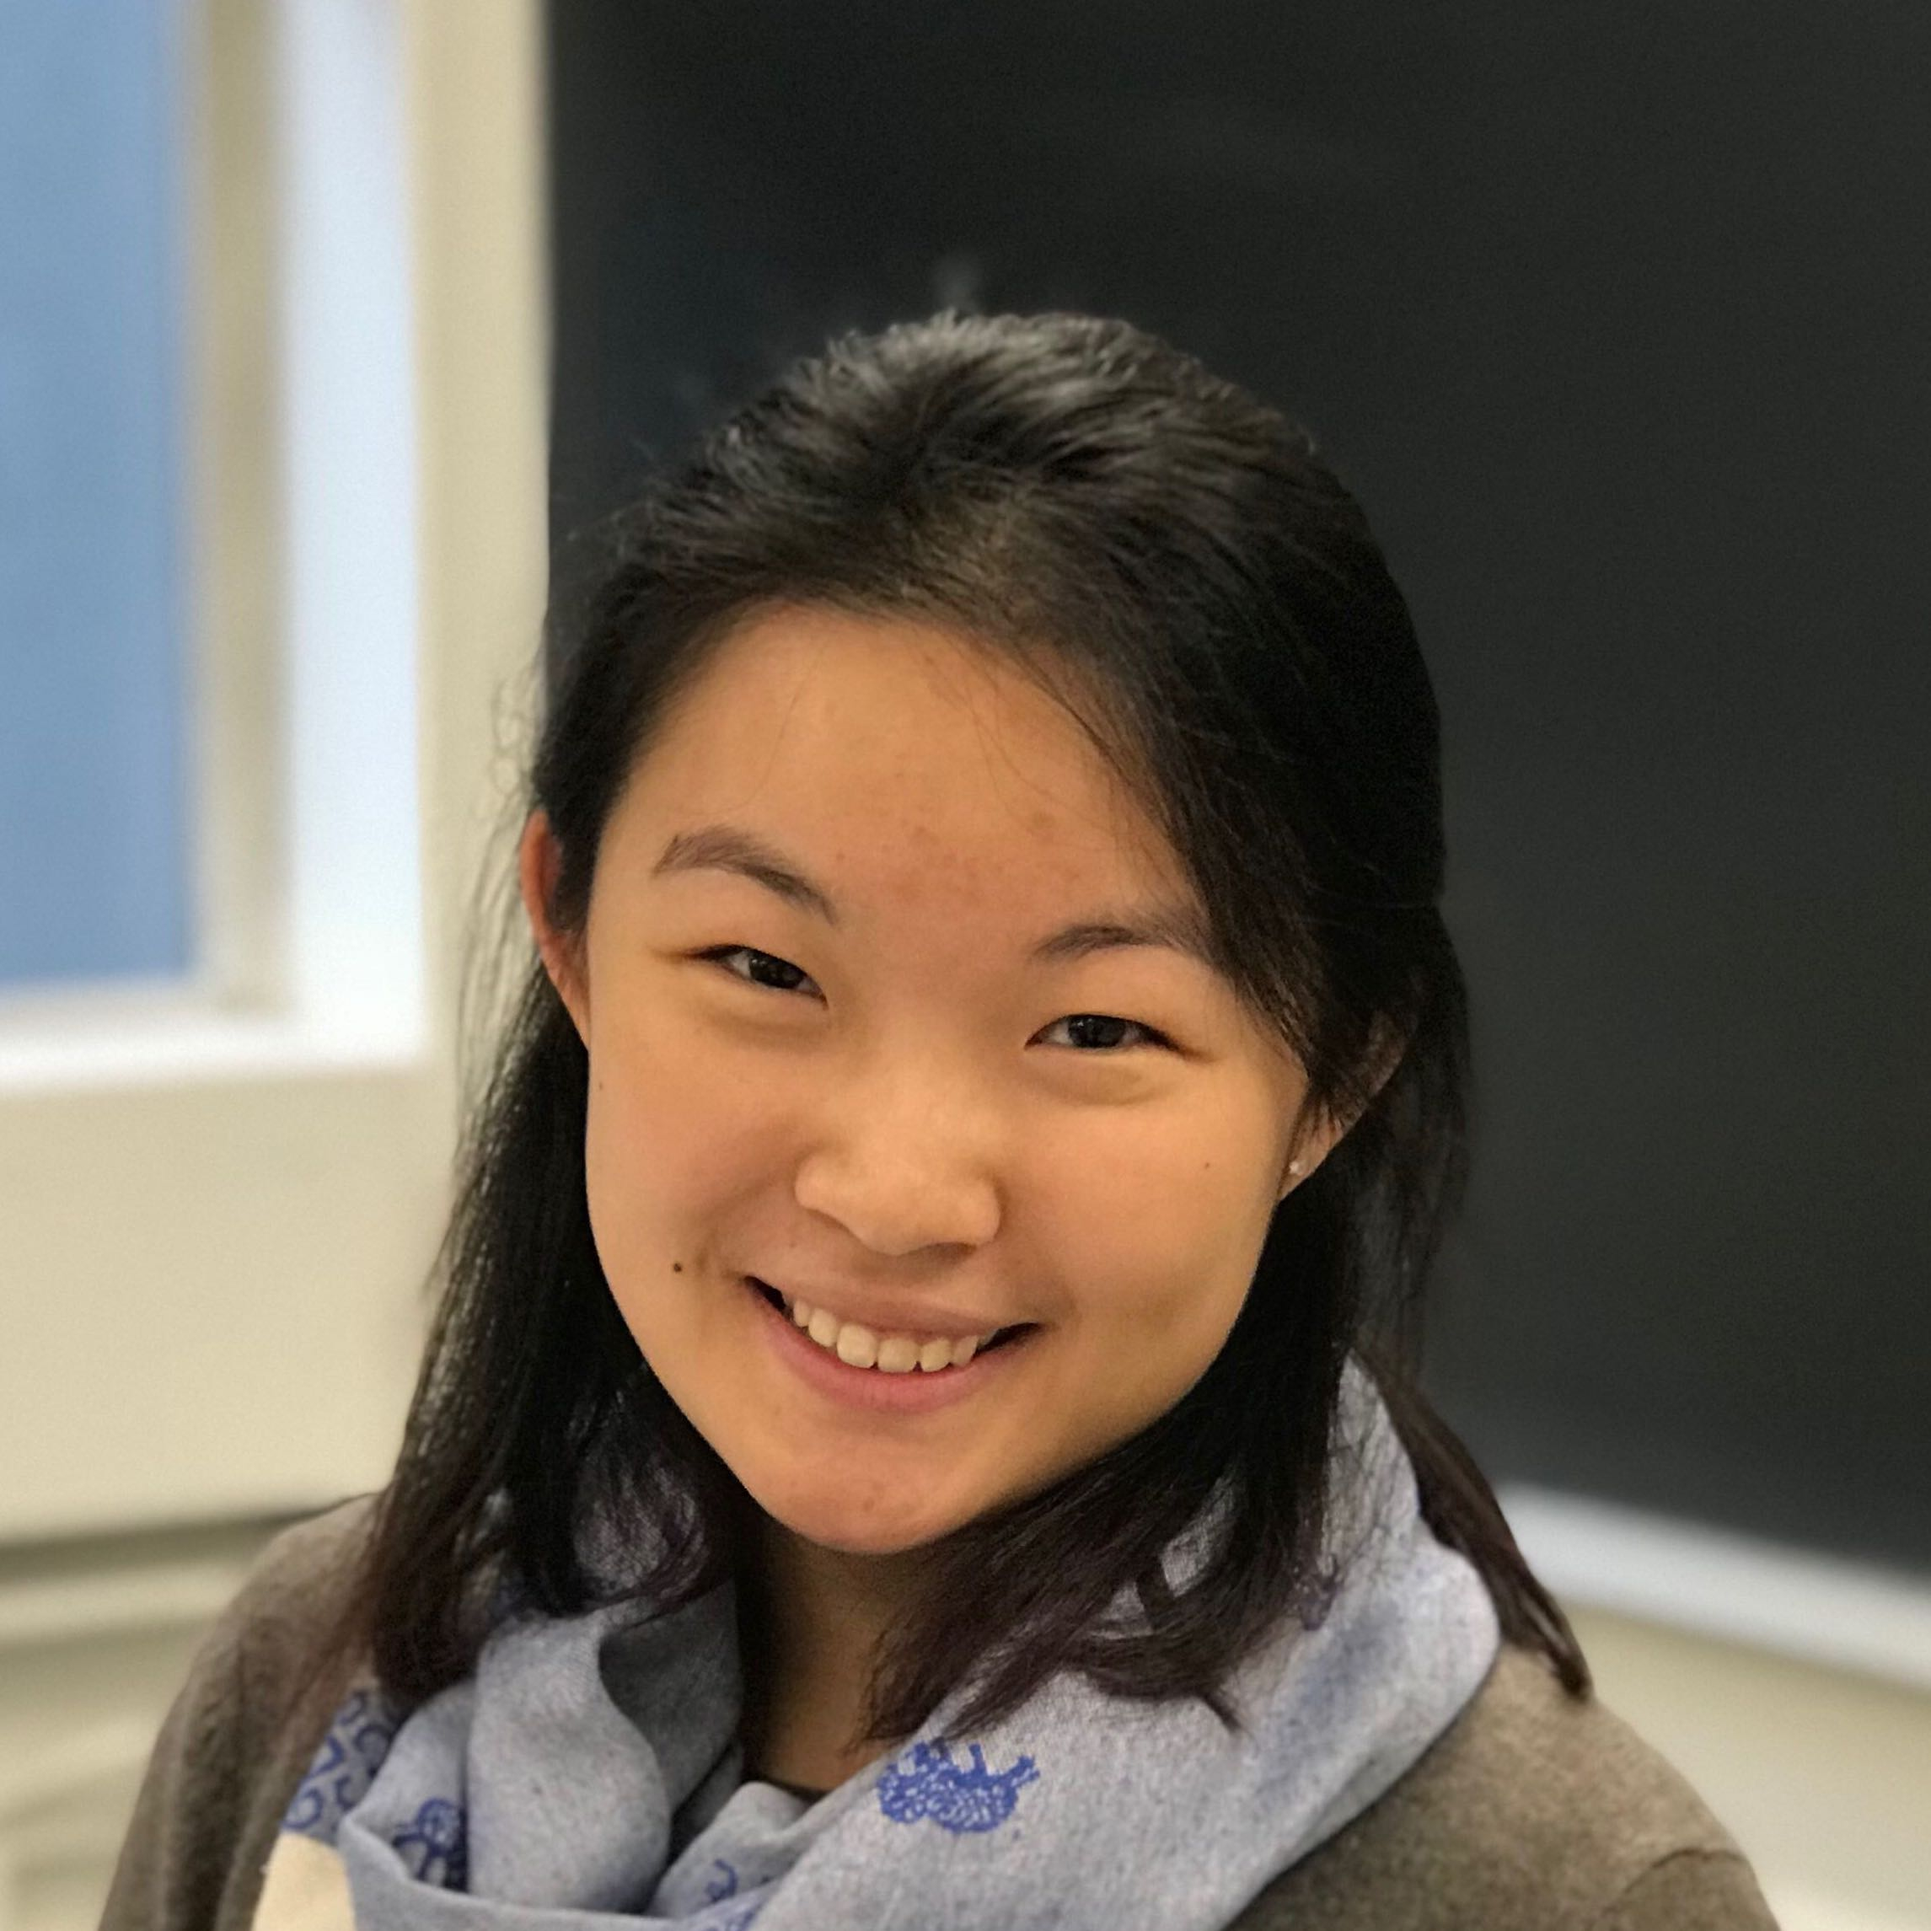
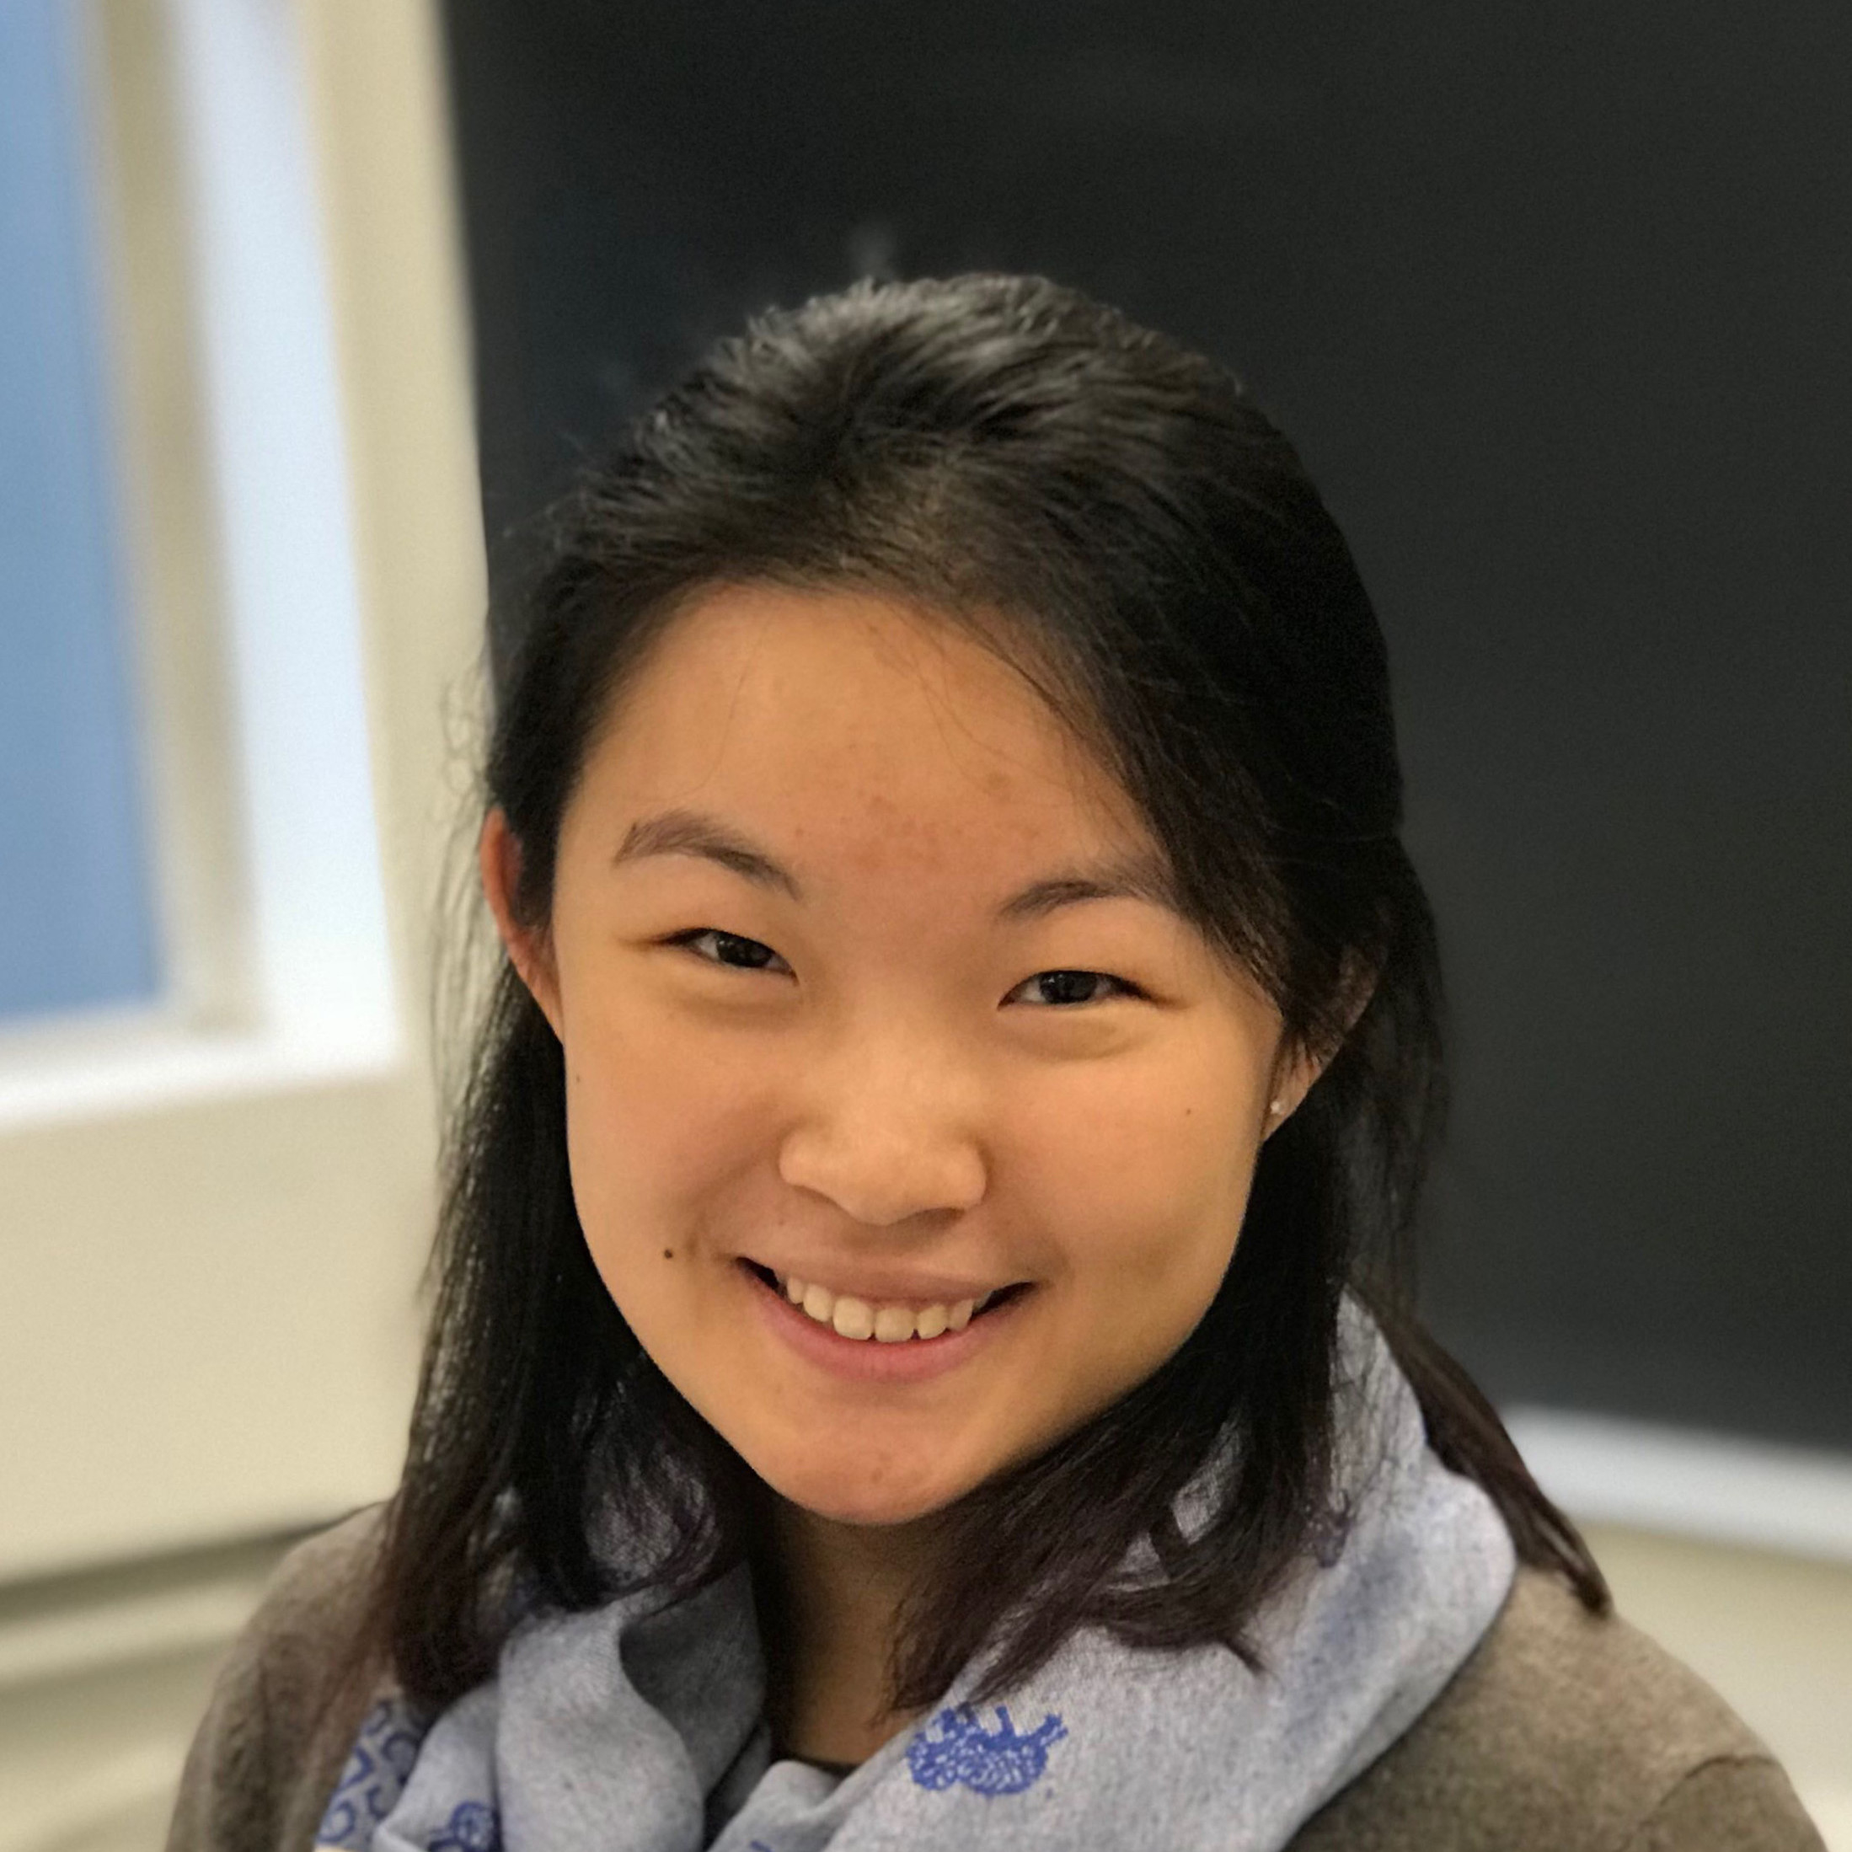
update team photos and add contact section

diff --git a/index.html b/index.html
@@ -315,12 +315,12 @@
 		<section id="panel_7">
 			<div class="container d-flex flex-column justify-content-start">
 				<h1 class="text-left main-section-title display-3 pb-4">Contact us</h1>
-				<h3 class="pb-3 main-section-title display-5">We're happy to help you get started.  Please email us at <a href="MAILTO:contact@hackharvard.io">contact@hackharvard.io</a> with any questions or inquiries.<br><br>We will respond to all emails within 1 business day</h3>
+				<h3 class="pb-3 main-section-title display-5">We're happy to help you get started.  Please email us at <a href="MAILTO:contact@hackharvard.io">contact@hackharvard.io</a> with any questions or inquiries.<br><br>We will respond within one business day.</h3>
 			</div>
 		</section>
 		<footer>
 			<div class="text-center d-flex justify-content-center align-items-center">
-				<h6 class="p-4" style="color:#848484">Copyright 2018 HackHarvardCollege</h6>
+				<h6 class="p-4" style="color:#848484">Copyright 2015-2019 HackHarvardCollege</h6>
 			</div>
 		</footer>
 

diff --git a/css/master.css b/css/master.css
@@ -44,7 +44,7 @@ footer {
 }
 
 .under-overlay {
-  z-index:-1;
+  z-index:0;
   pointer-events: auto;
   position: relative;
 }
